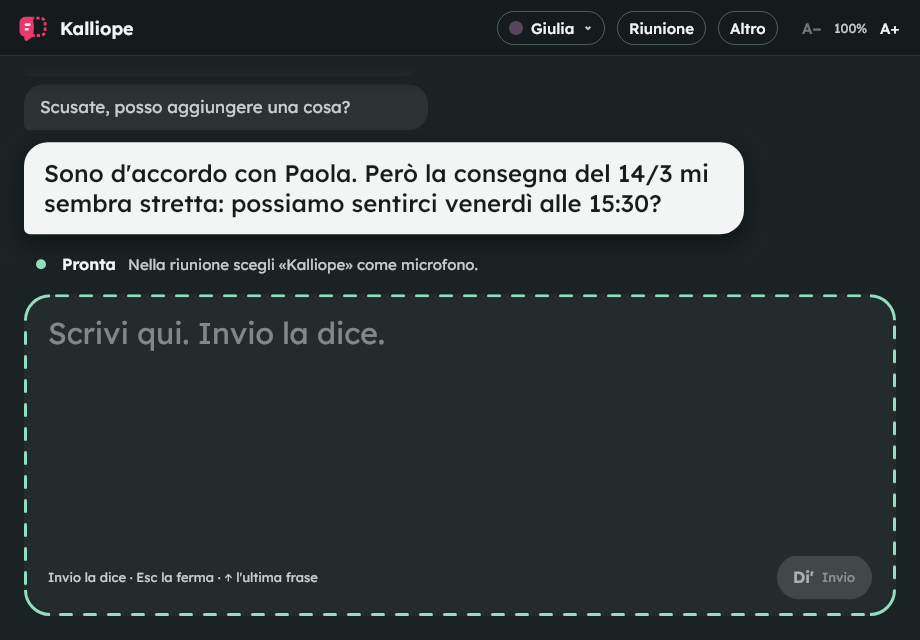
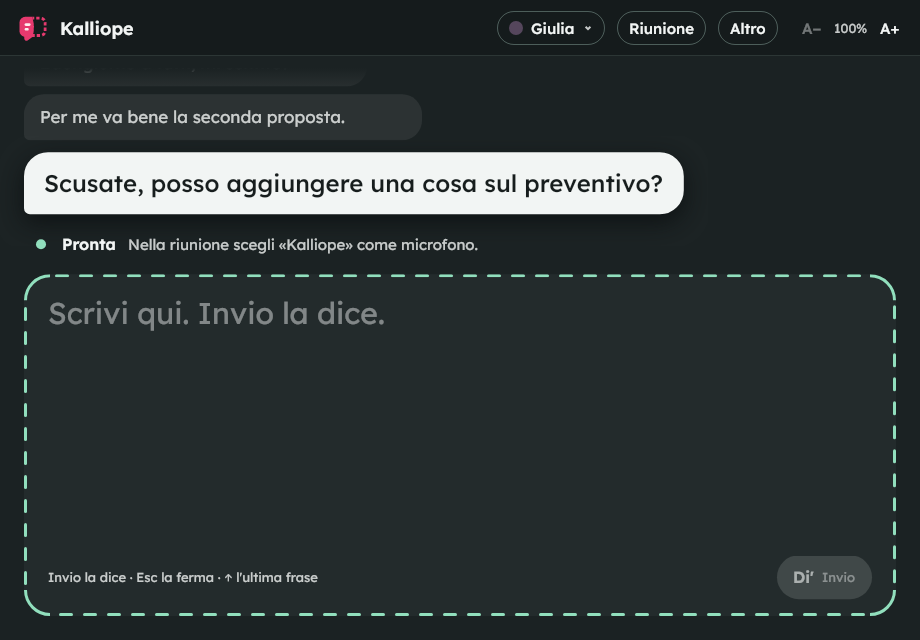
Make the website and README true to the finished window
The guide's picture is the real window now; the microphone texts no longer
say the cause is in English (the app says it in plain Italian); the
measurements of the new window replace those of 0.2.

Changed region(s): [[0.0304, 0.1562, 0.8217, 0.5625], [0.9435, 0.4375, 0.9739, 0.5]]

diff --git a/website/riunione/index.html b/website/riunione/index.html
@@ -172,7 +172,7 @@
 <div class="se-non-va" data-t="riu.testo.6"><span class="se-non-va__titolo">Se non è andata</span>Se dice «Nessuno ti sente», «Manca il microfono» o «La voce non parte», premi «Come si risolve», accanto alla riga: ti porta alla spiegazione giusta. Per ogni altra riga, <a href="#aiuto">cercala nella sezione Aiuto</a>.</div>
 </div>
 <figure class="riunione-finestra coppia-oggetto">
-<img alt="La finestra di Kalliope. In alto la barra, con il logo, il nome e la voce (Giulia). Sotto, la riga di stato: «Pronta. Nella riunione scegli «Kalliope» come microfono.» Poi le frasi già dette, in bolle, e in basso la bolla tratteggiata dove scrivi, con «Di'»." data-t-alt="riu.immagine.8" height="640" src="../immagini/kalliope-finestra.png" width="920"/>
+<img alt="La finestra di Kalliope. In alto la barra, con il logo, il nome, la voce (Giulia), «Riunione», «Altro» e la grandezza del testo. Sotto, le frasi già dette, in bolle: l'ultima è la più chiara. Poi la riga di stato: «Pronta. Nella riunione scegli «Kalliope» come microfono.» In basso la grande bolla tratteggiata dove scrivi, con «Di'»." data-t-alt="riu.immagine.8" height="640" src="../immagini/kalliope-finestra.png" width="920"/>
 <figcaption data-t="riu.testo.7">La finestra di Kalliope: la barra con la voce, la riga di stato, le frasi già dette e, in basso, la bolla dove scrivi.</figcaption>
 </figure>
 </section>
@@ -296,7 +296,7 @@
 </h3>
 <dl>
 <dt data-t="ai.testo.35">Cosa significa</dt>
-<dd data-t="ai.testo.36">La voce funziona, ma il microfono «Kalliope» non si è creato, e per ora nessuno ti sentirà nelle chiamate. Dopo «ma», la riga scrive la causa, spesso in inglese («La voce è pronta, ma …»).</dd>
+<dd data-t="ai.testo.36">La voce funziona, ma il microfono «Kalliope» non si è creato, e per ora nessuno ti sentirà nelle chiamate. Dopo «ma», la riga dice la causa in parole semplici, per esempio che PipeWire, il servizio audio del computer, non risponde.</dd>
 <dt data-t="ai.testo.37">Cosa fare</dt>
 <dd>
 <p data-t="ai.testo.78">Se la causa dice <code>PipeWire is not running</code>, avvia PipeWire con questo comando:</p>

diff --git a/website/stato/index.html b/website/stato/index.html
@@ -172,7 +172,7 @@
         <div class="catena-misura"><p class="catena-misura-testo" data-t="st.catena.misura">Dal tasto Invio al suono nella riunione: <strong>non misurato</strong></p></div>
         <div class="catena-computer">
           <p class="catena-computer-nome" data-t="st.catena.computer">Le cifre: su un solo computer, un portatile con Ryzen 5 PRO 6650U. Su altri non le conosciamo.</p>
-          <p class="catena-programma" data-t="st.catena.programma">Il programma con la finestra nuova: dimensione, memoria con la voce caricata e processore da fermo <strong>non ancora misurati</strong>. Con la finestra della 0.2 erano 10,6 MB, circa 117 MB con la voce caricata e 0% di processore da fermo. <span class="fonte"><a href="{{kalliope.source.url}}/README.md" title="README.md" data-t-no="il percorso di un file del repository">README</a></span></p>
+          <p class="catena-programma" data-t="st.catena.programma">Il programma con la finestra nuova: 24 MB, circa 135 MB di memoria con la voce caricata, meno dello 0,5% di un processore da fermo e circa il 7% mentre parla, finestra compresa. <span class="fonte"><a href="{{kalliope.source.url}}/README.md" title="README.md" data-t-no="il percorso di un file del repository">README</a></span></p>
         </div>
         <ol class="catena-tappe">
           <li class="anello fatto nel-computer entra" data-anello="installa">

diff --git a/website/installa/index.html b/website/installa/index.html
@@ -399,7 +399,7 @@
             </li>
             <li class="frase-finestra">
               <p class="frase-detta" data-stato="microfono"><span data-t="in.frasi.microfono.frase">«Manca il microfono»</span></p>
-              <p class="frase-rimedio" data-t="in.frasi.microfono.rimedio">Il microfono «Kalliope» non si è creato: di solito manca PipeWire, o non è acceso. La causa è scritta in inglese dopo «ma». <a href="../riunione/#non-compare">Che cosa fare</a></p>
+              <p class="frase-rimedio" data-t="in.frasi.microfono.rimedio">Il microfono «Kalliope» non si è creato: di solito manca PipeWire, o non risponde. Dopo «ma» la riga dice la causa. <a href="../riunione/#non-compare">Che cosa fare</a></p>
             </li>
             <li class="frase-finestra">
               <p class="frase-detta" data-stato="nessuno"><span data-t="in.frasi.nessuno.frase">«Nessuno ti sente»</span></p>

diff --git a/README.md b/README.md
@@ -41,7 +41,7 @@ typed text → normalizer → phonemizer → neural voice → virtual microphone
 | Voice | `kalliope-voice` | Klein-TTS-X1.5-Pro through ONNX Runtime, loaded at run time; one thread, no spinning, no memory arena | about 0.07 CPU-seconds per second of speech |
 | Own voice | `kalliope-voice` (`pocket`) | Pocket TTS by Kyutai: three ONNX graphs, the flow model with 8-bit weights, two threads; streamed frame by frame | see [A voice of your own](#a-voice-of-your-own-in-progress) |
 | Microphone | `kalliope-mic` | PipeWire virtual source "Kalliope", loaded at run time; audio flows only while an app listens | 0% CPU when nobody listens |
-| App | `kalliope-app` | Slint window, software-rendered, accessible to screen readers; one sentence is synthesized while the previous one plays | 10.6 MB RAM with the window alone, about 117 MB with the voice loaded, 0% CPU when idle |
+| App | `kalliope-app` | One Slint window drawn by Skia on the CPU, with Kalliope's own look from the design system, accessible to screen readers; a sentence is spoken piece by piece and Stop is immediate | 24 MB binary; about 135 MB RAM with the voice loaded; under 0.5% of a core when idle, about 7% while speaking |
 
 ## A voice of your own (in progress)
 
